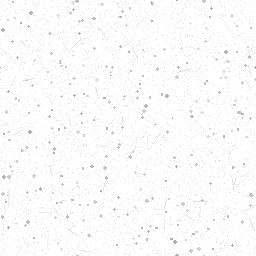
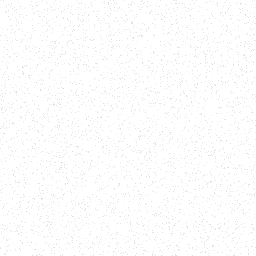
Clean the lens: remove the dust layer and hair-like scratches from the grain
Claude-Session: https://claude.ai/code/session_01U8Se5KMasYwnoV4cPQTKid

diff --git a/assets/css/main.css b/assets/css/main.css
@@ -1237,7 +1237,7 @@ kbd {
 @keyframes scan { to { transform: translateY(calc(100vw * 13 / 16 + 140px)); } }
 .hud__nav a[aria-current] .scramble-ghost::before { content: "◆ "; font-size: 8px; vertical-align: 2px; color: transparent; }
 
-/* ── 19e · candlelight, dust & a moving sky ─────────────────── */
+/* ── 19e · candlelight & a moving sky ─────────────────── */
 .atmos__candle {
   background:
     radial-gradient(640px 460px at 10% 100%, rgba(255, 168, 92, .14), transparent 70%),
@@ -1254,10 +1254,6 @@ kbd {
           mask-image: radial-gradient(ellipse 60% 55% at 72% 28%, #000, transparent 75%);
 }
 .atmos__sky { position: absolute; inset: 0; width: 100%; height: 100%; }
-.atmos__dust {
-  background: url("../img/dust.png") 0 0 / 512px 512px; opacity: .45;
-}
-@keyframes dust { 0% { background-position: 0 0; } 33% { background-position: 170px 90px; } 66% { background-position: -120px 230px; } 100% { background-position: 60px -140px; } }
 
 
 /* ── 19g · small things ─────────────────────────────────────── */

diff --git a/_layouts/default.html b/_layouts/default.html
@@ -6,7 +6,7 @@
 <body class="room room--{{ page.room | default: 'misc' }}" data-base="{{ site.baseurl }}">
   <a class="skip" href="#main">skip to content</a>
   {% include heart-defs.svg %}
-  <div class="atmos" aria-hidden="true"><i class="atmos__candle"></i><i class="atmos__grid"></i><i class="atmos__circuit"></i><i class="atmos__stars"></i><canvas class="atmos__sky"></canvas><i class="atmos__grain"></i><i class="atmos__dust"></i></div>
+  <div class="atmos" aria-hidden="true"><i class="atmos__candle"></i><i class="atmos__grid"></i><i class="atmos__circuit"></i><i class="atmos__stars"></i><canvas class="atmos__sky"></canvas><i class="atmos__grain"></i></div>
   {% include hud.html %}
   {% include starmap.html %}
   <main id="main" class="main">
